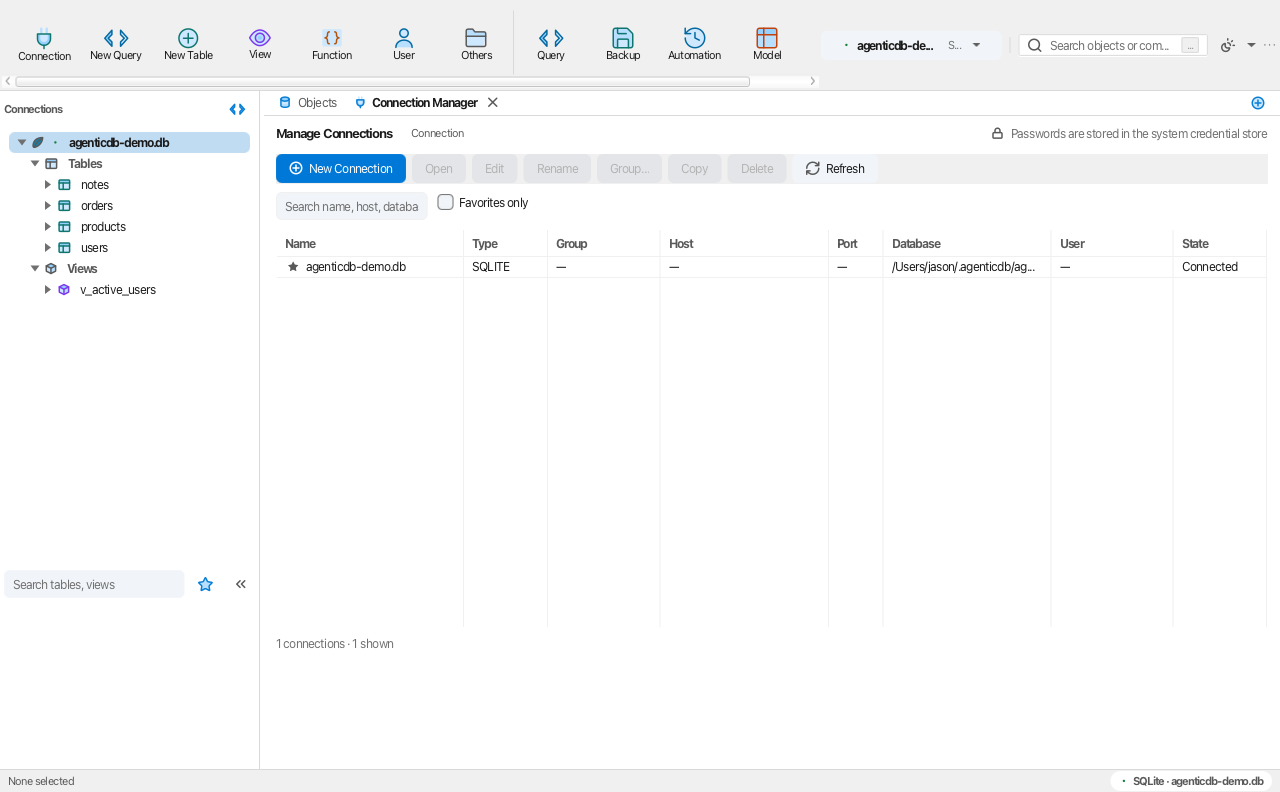
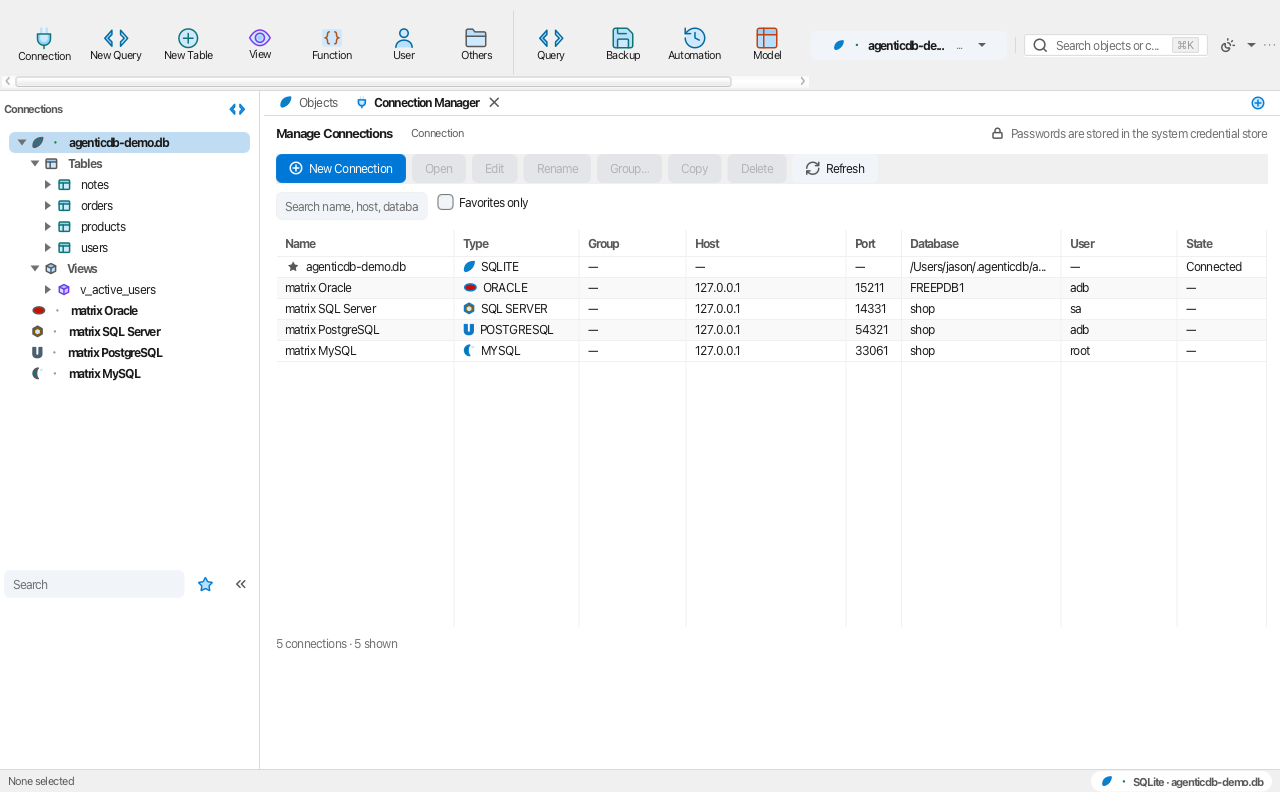
docs: R54 收官回量 1481/159 —— 两个数各自量过，帧抓到两条测试全绿的缺陷
基线（./scripts/build.sh，本机 Docker 起满五引擎 + 三家加密对端）：
- 带矩阵环境：**1481 执行 / 159 类 / 0 失败 / 6 跳过**（10:37→10:48，11:28 分钟）
- 不带矩阵环境：**1394 执行 / 93 跳过**（10:50→11:01，10:56 分钟）
两个数是同一次代码上分别跑出来的，不是抄上一版：较 R53 的 1467/159 = +14 条 / +0 类，
十四条全落在 adb-ui-shell（738 → 752）；两个口径的差仍是 87（1467−1380 = 1481−1394），
因为本轮新门禁不吃环境。带环境那一次的完整日志只留了尾部，所以「非致命异常计数」
只在**不带环境那一次**的 surefire 报告里数过 —— 文档里写明了，没当成两次都数过。

画面：新增 p0-tree-vendors（55 张既有帧里没有一张拍到左树，这是第一张多引擎同框的树）
与 p5-connections-vendors（六家同框 + 胶囊 + 页签 + 状态栏同框），重拍 p5-connections
与 p5-connect-general。四张都按最终代码（含顶栏胶囊那枚图形）重拍并目视核对过。

⚠ 余下的画面账，写在 STATUS 与 GAP-TODOLIST 里不当已验：
- 暗色档的多引擎同框没拍 —— 暗档品牌色只有 ContrastTest 的 ≥3:1 数值证据，没有画面证据；
- 其余 53 张帧拍于顶栏胶囊加图形之前，各自证的仍是别的表面，但别拿它们当「顶栏长这样」的凭据。

文档改的地方：UI-VISUAL-SPEC §4.6 从「两个落点 / 四条规矩」改成「十个表面 / 五条规矩」
（新增第 5 条：给一列加图形就得重新量那一列 —— Type 列 90 → 中途 112 仍折 → 140），
§15 加第五十四轮一行；ROADMAP 的「彩色图标体系」与「导航」两行、STATUS 新增「厂商识别」
能力面一行。本轮没有新增 i18n 键，汉字棘轮与 MODEL_CJK_CEILING 未动。

diff --git a/docs/STATUS.md b/docs/STATUS.md
@@ -10,8 +10,8 @@
 | 项 | 值 |
 |---|---|
 | 命令 | `./scripts/build.sh`（= `./mvnw -B clean verify` + `java tools/TestCount.java`） |
-| 最近一次全量回量 | 2026-11-03 09:00 · macOS 15.7.9 x86_64 · Temurin JDK 25.0.4.1+1 · 本机 Docker 起满五引擎 + 每家两把库（`scripts/dbmatrix.sh`）**+ 三家加密对端**（`dbmatrix.sh tls-up`）· **带 `set -a && . scripts/.dbmatrix.env`**（环境变量在，三套真库矩阵都是真跑的：主矩阵 `ExternalRealDatabaseTest` `Tests run: 46 / 0 失败 / 0 跳过`、TLS 矩阵 `ExternalTlsDatabaseTest` `Tests run: 18 / 0 失败 / 0 跳过`、**本轮新增的写回矩阵 `EditWriteBackMatrixTest` `Tests run: 10 / 0 失败 / 0 跳过`**）。本轮改动（模型 + 界面 + 契约）**全部在这一次全量窗口之内**，量完到提交之间没有再动过产品代码 |
-| 结果 | **1467 条 / 159 类 / 0 失败**（另有 6 条跳过，全部是**设计如此**的门控，见下）—— R53（真库契约第 10 / 11 条 = 数据写回）收官后回量（`./scripts/build.sh` 全绿，2026-11-03 09:00，11:13 分钟；较 R47-d 基线 1453 / 157 = **+14 条 / +2 类**，逐笔对得上：`adb-editing` 19 → 32 = +13（`EditValuesTest` 3 + 新 `EditWriteBackMatrixTest` 10 = 5 引擎 × 2 契约，新增的那 2 类之一）、`adb-ui-shell` 737 → 738 = +1（`CellValueParserTest` 那条「界面接线」门）；其余逐家一字不变。<br>逐模块：`adb-ui-shell` 738 · `adb-introspect` 206 · `adb-jdbc` 198 · `adb-safety` 84 · `adb-ui-core` 62 · `adb-transfer` 50 · `adb-session` 33 · `adb-sql` 31 · `adb-model` 30 · `adb-editing` 32 · `adb-fixtures` 3（合计 1467）。<br>⚠ **口径一（数字对不上时先看这条）**：`adb-jdbc` 按 surefire 的 `tests=` 属性求和是 199，而门禁数是 198 —— 差的那 1 条是 `DatabaseVersionMatrixTest` 的设计性跳过（`@Nested` 口径警告见本节下方）。两个数不是同一口径，别互相抄。<br>⚠ **口径二（本轮两个数各自量过，不是抄上一版）**：同一轮**不带**矩阵环境的回量 = **1380 执行 / 93 跳过**（`adb-editing` 跳 10、`adb-jdbc` 跳 64、`adb-introspect` 跳 14、WinCred 跳 5）；带环境是 1467 / 6。环境不在时数字自己掉 **87** 条 = 上一轮的 77 加上本轮新增的 10 条写回契约 —— **两条独立量出来的数各自对得上**（`editing` 那一格从 19 涨到 32 再掉回 22，涨的 13 条里恰好 10 条是环境门控的）。所以基线一律**带环境量**，这两个数不可比、也不许互相抄 —— 这也解释了「为什么我本地的数比文档少 87」。<br>⚠ **本轮最值钱的一条不是那 10 条绿灯**：契约第一次端出「五个假缺陷」——它照「界面交空串」这个**猜测**往 `DECIMAL` / 布尔列绑 `""`，四家服务端整批拒、SQL Server 的 `BIT` 静默折成 0，而**产品根本不交这个形状**。D-38 是契约内联兜底（走得更宽），这次是契约猜界面形状（走得更窄），同一枚硬币的两面。修法已落进代码：`ColumnType.textual()` + `EditValues.emptiedCell` 做成界面与契约**共用的唯一出处**。五条变异逐条量过（7 / 6 / 2 / 4+10 红），记在 CHANGELOG 的 R53 条目里。<br>⚠ **上一轮（R47-c/D）的四处红/变异不在本行数字里，账在 CHANGELOG 与 `docs/UI-VISUAL-SPEC.md` §15**：D-38（PG / SQL Server 的 `readDdl(view=true)` 是 `return null` 空壳 → 那两家的「设计视图」一次都没开过窗）、D-39（快门落在「还没连上」那一刻 → 画面是演示库、文件名写着 oracle）、D-37（方言 id 拼错却退回演示库拍完还返回 0）、D-37b（一次正确的 abort 在 CI 上长得和成功一模一样）。<br>⚠ **测试侧纪律（R47-b 定的，本轮继续用）**：外壳级门禁留下脏页签时，`@BeforeEach` 的 `resetUi` 一点关闭钮就撞上模态「未保存」确认（`showAndWait` 卡在 FX 线程上）—— 后果不是报红而是**把后面整类测试拖成超时**。断言前先 `markClean`。<br>⚠ 另有一条本轮踩到、上一轮也写过一次的：**`./mvnw -pl <模块>` 不带 `-am` 会用本地仓库里已安装的旧构件**。本轮改完 `adb-model` 的 `textual()` 再单跑 `adb-editing`，红的是「找不到符号 textual()」—— 不是代码错，是量错了对象。变异验证一律带 `-am`。<br>⚠ 日志里的非致命异常（本轮两次回量各自 `grep -c` 数出来的）：Monocle 离屏缓冲异常（`Too small int buffer size …`，渲染线程噪音，所在类仍 `Failures: 0`）**0 次**；`Key too long: ui.query.colwidth.…`（**D-18**）**0 次**（连续第六轮）；`[真库契约] 清理临时视图失败`（**D-30**）**0 次**（连续第六轮）；`[screenshot] FRAME ABORTED` 在两次全量里各 **0 次**。 |
+| 最近一次全量回量 | 2026-11-03 · macOS 15.7.9 x86_64 · Temurin JDK 25.0.4.1+1 · 本机 Docker 起满五引擎 + 每家两把库（`scripts/dbmatrix.sh`）**+ 三家加密对端**。**两个数各自量过两次**：① **带** `set -a && . scripts/.dbmatrix.env` 那一次 10:37→**10:48**（11:28 分钟，全绿）—— 三套真库矩阵都是真跑的（主矩阵 `ExternalRealDatabaseTest` 46 / 0 失败 / 0 跳过、TLS 矩阵 `ExternalTlsDatabaseTest` 18 / 0 / 0、写回矩阵 `EditWriteBackMatrixTest` 10 / 0 / 0）；② **不带**环境那一次 10:50→**11:01**（10:56 分钟，全绿）。本轮改动（界面 + 门禁）**全部在这两个窗口之内**；量完之后只改过一处**注释**（`ConnectionsPage` 那段列宽说明把「纯文字 90 → 中途 112 → 最终 140」说准），行为代码一行没动 |
+| 结果 | **1481 条 / 159 类 / 0 失败**（另有 6 条跳过，全部是**设计如此**的门控，见下）—— R54（每家数据库各一枚厂商图形，铺满十个表面）收官后回量（`./scripts/build.sh` 全绿，2026-11-03 10:48，带矩阵环境；较 R53 基线 1467 / 159 = **+14 条 / +0 类**，逐笔对得上：全部 14 条落在 `adb-ui-shell` 738 → **752**（`VendorGlyphTest` +2、`SideBarTreeTest` +2、`TabBarTest` +3、`ConnectionsPageTest` +1、`StatusBarTest` +1、`QueryCatalogSelectorTest` +1、`ConnectionWizardTest` +1、`AppBarTest` +3），其余逐家一字不变；**类数没涨**是因为十四条全落在既有类里。<br>逐模块：`adb-ui-shell` 752 · `adb-introspect` 206 · `adb-jdbc` 198 · `adb-safety` 84 · `adb-ui-core` 62 · `adb-transfer` 50 · `adb-session` 33 · `adb-sql` 31 · `adb-model` 30 · `adb-editing` 32 · `adb-fixtures` 3（合计 1481）。<br>⚠ **口径一（数字对不上时先看这条）**：`adb-jdbc` 按 surefire 的 `tests=` 属性求和是 199，而门禁数是 198 —— 差的那 1 条是 `DatabaseVersionMatrixTest` 的设计性跳过（`@Nested` 口径警告见本节下方）。两个数不是同一口径，别互相抄。<br>⚠ **口径二（本轮两个数各自量过，不是抄上一版）**：同一轮**不带**矩阵环境的回量 = **1394 执行 / 93 跳过**（`adb-editing` 22 跳 10、`adb-jdbc` 135 跳 64、`adb-introspect` 192 跳 14、WinCred 跳 5）；带环境是 1481 / 6。环境不在时数字自己掉 **87** 条 —— **与上一轮那个 87 是同一条账**（本轮 14 条新门禁全在 `adb-ui-shell`，不吃环境，所以两个口径的**差**没变：1467−1380 = 87、1481−1394 = 87）。所以基线一律**带环境量**，这两个数不可比、也不许互相抄 —— 这也解释了「为什么我本地的数比文档少 87」。<br>⚠ **本轮的性质与上一轮不同，值得记**：R54 **没有新增真库契约**，它新增的是**接线门禁** —— 图形这套资产 R43-a 就建好了，只铺在 2 个表面上，其余八个表面「说得出方言却画不出方言」。所以本轮最值钱的一条不是那 14 条绿灯，而是**两条只有帧能抓到的缺陷**（常驻「对象」页签在 `connectionId == null` 处短路、Type 列加图形后 `POSTGRESQL` 折成 `POSTGRE…`）—— 14 条门禁当时**全绿**。账见 CHANGELOG 的 R54 条目与 `docs/UI-VISUAL-SPEC.md` §4.6 / §15。<br>⚠ **上一轮（R47-c/D）的四处红/变异不在本行数字里，账在 CHANGELOG 与 `docs/UI-VISUAL-SPEC.md` §15**：D-38（PG / SQL Server 的 `readDdl(view=true)` 是 `return null` 空壳 → 那两家的「设计视图」一次都没开过窗）、D-39（快门落在「还没连上」那一刻 → 画面是演示库、文件名写着 oracle）、D-37（方言 id 拼错却退回演示库拍完还返回 0）、D-37b（一次正确的 abort 在 CI 上长得和成功一模一样）。<br>⚠ **测试侧纪律（R47-b 定的，本轮继续用）**：外壳级门禁留下脏页签时，`@BeforeEach` 的 `resetUi` 一点关闭钮就撞上模态「未保存」确认（`showAndWait` 卡在 FX 线程上）—— 后果不是报红而是**把后面整类测试拖成超时**。断言前先 `markClean`。<br>⚠ 另有一条本轮踩到、上一轮也写过一次的：**`./mvnw -pl <模块>` 不带 `-am` 会用本地仓库里已安装的旧构件**。本轮改完 `adb-model` 的 `textual()` 再单跑 `adb-editing`，红的是「找不到符号 textual()」—— 不是代码错，是量错了对象。变异验证一律带 `-am`。<br>⚠ 本轮新踩的一条同类坑，形状不同、根子一样：**断言读的是模型，不是界面**。`ConnectionsPageTest` 想验「Type 列每行顶自己那家的图形」，直接 `new TableCell` + `updateItem` 是**编译不过**的（跨包 protected），`setTableRow` 更private —— 只能驱动**渲染出来的 skin**（`lookupAll(".table-cell")` 按列与行 item 匹配，匹配不到就 `fail`）。「数据在节点里、类却没上到界面上」这一课已经是第二次出现。<br>⚠ 日志里的非致命异常（不带环境那一次全量的 surefire 报告里 `grep -l` 数出来的）：Monocle 离屏缓冲异常（`Too small int buffer size …`）**0 次**；`Key too long: ui.query.colwidth.…`（**D-18**）**0 次**（连续第七轮）；`[真库契约] 清理临时视图失败`（**D-30**）**0 次**（连续第七轮）；`[screenshot] FRAME ABORTED` **0 次**。⚠ 带环境那一次的完整日志没留（管道只留了尾部 50 行），所以这一项只在**其中一次**回量里数过 —— 别把它当两次都数过。 |
 
 
 
@@ -35,6 +35,7 @@
 | 连接与凭据 | ✅ | 六种方言**全部在真服务器上验过**：SQLite（本机）+ MySQL 8.4 / PostgreSQL 16 / MariaDB 11.8 / SQL Server 2022 / Oracle 23ai Free（`scripts/dbmatrix.sh` 五容器 + 每家两把库，`ExternalRealDatabaseTest` 5 引擎 × **9** 契约 = 45 例 + 1 例口令不外泄门 = 46 条）。⭐ R46 那一跑抓出四条只有真服务器才会报的缺陷（D-20 编造的 `sys.tables.collation_name` · D-22 Oracle 目录只认大写导致加引号对象全隐形 · D-24 `sys.triggers` 没有事件列 · D-25 `SHOW CREATE EVENT` 的定义体在第 4 列，按位置猜读到 `"SYSTEM"`）；R52 加第 8 条「视图生命周期」又抓出两条（D-27 · D-29，见 §2「视图生命周期」）；第 9 条「切库落点与隔离」把查询页那颗库选择器从「只由单测钉住」补成**真库证据**（同一台服务器两把库、同一个表名、字面相同的 SQL，两边各读各的行 —— 见 §2「查询页」）。⭐ R47-a 又起一圈**加密对端**（`dbmatrix.sh tls-up`：自签 CA + 一把冒名 CA，MySQL 33071 / MariaDB 33072 / PostgreSQL 54331），3 引擎 × 6 契约 = **18 例**：不加密真是明文、require 真把会话加密（`Ssl_cipher` / `pg_stat_ssl` 各读各的）、给了签发方链校验真通过、换一把没签过服务器的 CA 真被拒、证书里写着的名字（`localhost`）连得上、证书里没写的（`127.0.0.1`）真被挡 —— 这一跑抓出 **D-33**（选「不加密」时一个参数都不写，而三家驱动的默认都是「能加密就加密」：那个标签一直在骗人）、**D-32**（证书失败被归成「连接已断开」，建议把人支去查网络）、**D-34**（连接根本没建起来被归成「查询超时」）。**仍未在真库验证**：SNI（没有按 SNI 选多域名的对端形状，不写「已验」）与 **MySQL 5.7**（版本矩阵是 opt-in）。连接分组、收藏、复制、URI（含 Oracle EZConnect 与 SQL Server 分号参数串）；口令进系统凭据服务，**不落盘**；`connections.json` 落盘前剔除敏感键；HikariCP 池化（除 SQLite），SQLite 直连 |
 | 连接向导 | ✅ | 两页 900×700：类型页 **一行 6 张彩色磁贴**（R43-b：只摆真有驱动的六家，各顶自绘厂商图形 + 品牌色；块居中，不留下半屏空白）+ 一行「其它数据库走兼容协议 / URI」的提示，属性页 7 页签 + `AIDB ⟷ Database` 示意图 + 底部五键。⭐ 原来照 Navicat 摆 22 张（9 类型 + 13 厂商）配 22 个复选与搜索框，其中 16 张点进去是「本版不支持」—— 那不是它的形态（它摆这些家是因为真连得上去），我们摆出来只是让用户多点十六次空；复选栏、搜索框、滚动容器与「无驱动说明页」随死磁贴一起删，「其它怎么办」改成页面上明写的一行。SSL 页的档位与根证书参数**由方言自报**（PG `sslmode` / MySQL `sslMode` / MariaDB `sslMode`+`serverSslCert`，MariaDB 没有 prefer 档）；⭐ R47-a 在加密对端上跑完之后翻两处：① 「不加密」**真的写** `DISABLED` / `DISABLE` / `disable`（原先不写参数，而三家默认都是「能加密就加密」—— 见 D-33）；② MySQL 的「根证书」格在 VERIFY_CA 以上**禁用**并把说明写成 `trustCertificateKeyStoreUrl`（Connector/J 8.2 既没有 `sslCA` 也没有 `sslCapath`，未知属性被静默忽略 —— 收一个填了不生效的路径比不给这个格子更糟）；SQL Server（encrypt + trustServerCertificate 配对）与 Oracle（钱包 / sqlnet.ora）收起档位并写明去哪里填；SSH / HTTP 页如实标注「未实现」，不是空壳 |
 | 对象树 | ✅ | 真实内省（表 / 视图 / 函数·过程；触发器按表归属在结构页，事件本版本不上树）；多连接同树；表节点懒加载展开列，失败可重试；**搜索框的作用域是整棵树**（表 / 视图 / 函数·过程 / 已保存查询），所以提示词只写中性的「Search」，不再点名「表、视图」把自己说窄（R44-G2-a）；搜索框右侧另有**清除一键**，空框时连位置都不占；**右键菜单按对象类型分家**（表节点：清空 / 重命名 / 删除表；视图节点：设计视图 / 删除视图 —— 不再在视图上摆只能失败的表级动作）；**连接节点顶自己那家的厂商图形 + 品牌色**（与向导磁贴读同一登记行，所以两处的 MySQL 同形同色；认不出方言时回落中性插头，不挑一家画上去） |
+| 厂商识别 | ✅ | 六家各**一枚自绘图形 + 自己的品牌色**（不是商标位图，见下「不打包」边界），铺满界面上十个说得出「是哪家」的表面：顶栏连接胶囊与它下拉的每一行、左树的连接节点与**库**节点（库保留圆柱形状，只有颜色跟父连接走）、折叠轨道的连接钮、`OBJECT` 页签、连接管理器 Type 列、状态栏「来源」（与活线点并排 —— 两件事两个线索）、查询页的库▾、向导磁贴与向导预览图。⭐ R54：十个表面全走 `ConnectionCatalog.graphic(kind,size)` **一个出口**，静态审计禁止任何表面自己写 `Icons.Icon.DB_*` 常量选图形（加第七家只在登记行加一行）。**认不出方言时不许挑一家画上去**：回落中性插头 / 圆柱 / 点，顶栏那一格更彻底 —— 没图形就整格收起 |
 | 数据网格 | ✅ | 服务端分页（100/200/500/1000）、行首 16px 状态槽、类型行、列宽/顺序/显隐持久化、冻结列、矩形选择、⌘F 本页搜索、转置只读视图；工具条 13 具名键 + 视图/溢出两小键（放不下折进 `»`；R43-c：视图那颗 `≡▾` 不再钉 30px 宽，箭头不再压住图标）；底栏五键 + 页码框 + 齿轮（页大小/跳至记录）+ 放大镜 + 视图切换；**内嵌 Filter & Sort 生成器**（平铺 AND、Builder/Text 双模式、显式 Apply、Sort By 芯片） |
 | Filter & Sort 面板 | ✅ | 网格内嵌（非弹窗），只改草稿不即输即查；`Criteria Edited` 标脏，`Apply Filter & Sort` 才生效。**边界**：底层 `DataQuery` 只有平铺 AND —— `and` 固定，`[Ω]`（OR 组）给如实说明页；Text 模式只读（自由 SQL 请去查询页）；`IN` 条件无法在行内表达，列头漏斗的按值筛选保留并原样带入 |
 | 数据页写路径 | ✅ | 行内编辑 + 类型转换 + 按主键定位；NULL / 空串独立操作；批量操作走行多选 + 右键菜单 + 底部行操作条（TSV / INSERT / 克隆 / 置 NULL / 置空串 / 删除）；SQL 预览 → 单事务 → 失败回滚 → 保存后一次反向撤销。⭐ **R53 起这条有真库证据**（此前九条契约量的全是「读」，这条用得最多的「写」只在 SQLite 替身上跑过）：契约第 10 条 `writeBackRoundTrip` 按界面的同一个顺序调同一个 `EditSqlBuilder`，在五台真服务器上量「中文不折问号 / `10.50` 不掉标度 / `true` 在 TINYINT(1)、BOOLEAN、BIT、`NUMBER(1)` 四档形状下都读得回成真 / 同行两格改动只发**一条** UPDATE 且 `WHERE` 只命中主键那一行 / 撤销打得回原值 / 删一行只少一行」；第 11 条钉「清空一格落成什么」—— 数字与布尔列五家全部落成**真 NULL**，文本列落成空串（Oracle 把 `''` 存成 NULL 是它自己的形状，如实分支钉）。⚠ 如实记一条边界：Oracle 的 `NUMBER(1)` 在目录里归 `ColumnType.NUMBER` 而非 `BOOLEAN`（其余四家归 BOOLEAN），**两边都是事实** —— Oracle 没有可用的布尔建表档，契约按引擎各钉自己那一档，不假装五家一样。 |
@@ -67,9 +68,15 @@
 - 验收帧目前全部是 **macOS** 拍的（2026-10-30 起）。⭐ 其中 **8 张拍在本机 Docker 的真服务器上**，分属四家方言
   （`ADB_MATRIX` 那条通道：R47-b 的 `库▾` 展开态 / 切到第二把库后的页面态 / MySQL 侧新建与改视图的方言形态，
   R47-d 的 SQL Server 方括号新建视图 + PG / SQL Server / Oracle 三家「设计视图」读回形态）；
+  ⭐ R54 另起**第三条通道** `ADB_TREE_VENDORS=1`（2 张：`p0-tree-vendors` 一棵树里五家并排、
+  `p5-connections-vendors` 连接管理器六家同框，另重拍 2 张）—— 它从 `ADB_TEST_<方言>_{HOST,PORT,DB,USER}`
+  造**连接档案**，**不声明有活会话**：图形取自档案的 `kind`，容器没起时五行各带一颗灰点而图形仍然是真的，
+  所以它不需要 D-37/D-39 那套落点门，反过来也**不能**被读成「五家同时连上了」。环境完全没配时
+  这一路同样 `abortMatrixFrame` → `exit 3` 且不写文件，不会退回「只有演示库一行」拍一张名字写着五家的图。
   其余 47 张拍在 SQLite 演示库上，而 SQLite 没有「库」这一层 —— 所以「下拉里有两把库」这类
   **只有真服务器才有的形状**在 R47-b 之前一直没有画面证据（现已还，见 §2「查询页」与「视图生命周期」两行）。
-  ⚠ 这条画面账上仍挂着的：切库**落点**帧只有 MySQL 一家（Oracle 没有库层，不算缺帧）、SSH 半边（G5a）全部画面。
+  ⚠ 这条画面账上仍挂着的：切库**落点**帧只有 MySQL 一家（Oracle 没有库层，不算缺帧）、SSH 半边（G5a）全部画面、
+  ⭐ R54 的**暗色档多引擎同框**（两张新帧都是亮色，暗档品牌色只有 `ContrastTest` 的 ≥3:1 数值证据、没有画面证据）。
   ⚠ 真库这条通道本轮被加了四道「不许假帧」的门（**D-37 / D-37b / D-39**，逐道都做过变异）：脚本侧方言 id
   白名单（写错直接 `exit 1`）、没配那一家口令就**跳过并说明**、外壳没落到那把档案或会话还没起来时
   **abort 且不写文件**（`System.exit(3)`）、脚本网格没产出文件就**非零退出**。口径是

diff --git a/docs/ROADMAP.md b/docs/ROADMAP.md
@@ -14,7 +14,7 @@
 | 平台 | macOS · Windows · Linux（**源码构建**；尚无签名安装包，见 `docs/STATUS.md` §分发） |
 | 数据网格 | 服务端分页、列筛选/条件构造、多列排序、列宽与顺序记忆、行内编辑、区域选择、冻结列；**Filter & Sort 内嵌生成器**（显式 Apply、Sort By 芯片） |
 | 写操作安全 | SQL 预览 → 单事务执行 → 失败回滚 → 保存后反向撤销；危险语句分级 + 两级确认 |
-| 导航 | 连接 → 库 → 分组三级树；MySQL / MariaDB / PostgreSQL / SQL Server 多库可切换（双击库即切），SQLite 单库平铺；页签与状态栏带库名。⭐ R52 契约第 9 条把「切过去之后语句真的落在那个库」补成了真库证据（此前只有连接对象换库名的单测） |
+| 导航 | 连接 → 库 → 分组三级树；MySQL / MariaDB / PostgreSQL / SQL Server 多库可切换（双击库即切），SQLite 单库平铺；页签与状态栏带库名，⭐ R54 起界面上十个说得出「是哪家」的表面各顶**自己那一家**的图形与品牌色，不用读字就知道连的是哪家。⭐ R52 契约第 9 条把「切过去之后语句真的落在那个库」补成了真库证据（此前只有连接对象换库名的单测） |
 | 结构编辑 | 加列/改列/重命名/删列、索引、外键、触发器、CHECK、表注释，全部单事务 + 联动刷新 |
 | SQL 编辑器 | 语法高亮、当前语句执行、多语句结果页签、执行计划、错误定位、查询历史、代码片段；已保存查询是对象页（4 列 + 设计/新建/删除） |
 | 导入导出 | CSV / TSV / JSON Lines / SQL / xlsx，字段映射、按目标列类型转换、坏行报告 |
@@ -27,7 +27,7 @@
 
 | 项 | 状态 |
 |---|---|
-| 彩色图标体系（对象类型 / 状态） | 导航词表（侧栏 / 对象树 / 结构页 / 页签）、功能区 6 条命令、16px 内联工具条与**六家数据库图形**（R43-a 自绘 + 品牌色令牌）都已走彩色档 |
+| 彩色图标体系（对象类型 / 状态） | 导航词表（侧栏 / 对象树 / 结构页 / 页签）、功能区 6 条命令、16px 内联工具条与**六家数据库图形**（R43-a 自绘 + 品牌色令牌）都已走彩色档。⭐ R54：厂商图形从「只在两处」铺到**十个表面**（顶栏胶囊与它的下拉 / 树的连接与库节点 / 折叠轨道钮 / `OBJECT` 页签 / 连接管理器 Type 列 / 状态栏 / 查询页库▾ / 向导磁贴与预览图），全部经 `ConnectionCatalog.graphic(kind,size)` 这**一个出口**，并有静态审计禁止任何表面自己写常量选图形 |
 | 弹窗与向导 | ✅ 已交付（R40，R43-b 收敛）：弹窗统一走系统标题栏；连接向导两页 900×700，类型页 **6 张磁贴**（只摆真有驱动的六家）—— 22 磁贴 / 9+13 复选栏 / 搜索 / 无驱动说明页已删 |
 | 表设计器与字号梯度 | ✅ 已交付（R41）：`Virtual` 生成列 / `Key` 单下拉 / `Key Length` / `Binary` / 属性面板自增 / `Ask AI` 说明页；字号收成 11/12/13 三档（令牌 104）。✅ R43-c 视觉收尾：数据网格工具条右端那颗**只有箭头的** `▾` 修掉（视图键的 30px 钉宽装不下「图标 + 箭头」，箭头被挤到图标左边压住它），建表弹窗字段页三段改为整体居中（四列时不再在网格与属性面板之间留一条 130px 的死空白） |
 | **更多数据库** | ✅ 已交付（R46，R52 补完视图与切库，R47-a 补完加密对端）：Oracle · SQL Server · MariaDB 的方言与目录查询**全部在真服务器上跑过** —— 本机 Docker 起满五引擎、每家两把库，真库契约展开成 5 × 9 矩阵（46 例）：R46 抓出 D-20 / D-22 / D-24 / D-25，R52 加第 8 条「视图生命周期」抓出 D-27 / D-29（SQL Server 的视图定义读取是空壳、MySQL 被误判成没有 `CREATE OR REPLACE VIEW`），第 9 条「切库落点与隔离」补上查询页那颗库选择器唯一没证的环节（语句落在哪个库）。⭐ R47-a 另起第二圈**加密对端**（自签 CA + 冒名 CA，MySQL / MariaDB / PostgreSQL 三家 × 6 条 = 18 例）：抓出 D-33（「不加密」当年一个参数都不写，而三家默认都是「能加密就加密」）、D-32（证书失败被归成「连接已断开」）、D-34（连不上被归成「查询超时」）。余：MySQL 5.7 那一档（版本矩阵是 opt-in，本机没跑过）、SNI 单独验证（没有需要靠 SNI 区分多域名的对端，不写「已验」）。⭐ R47-b 把这批真服务器接进了**画面**：截图通道新增 `ADB_MATRIX`（进程内临时档案，口令不进钥匙串、档案不落 `connections.json`），四张真库帧落地（`库▾` 展开态 / 切到第二把库后的页面态 / MySQL 侧新建与改视图的方言形态），并当场抓出 **D-36** —— 查询页换库后开出的新页其实是**空**的，而状态栏一直在说「SQL 已复制到新查询页」）。⭐ R47-c 把同一把尺子调过来量这条通道自己，堵掉四处「假帧」出口（D-37 / D-37b / D-39）：方言 id 拼错 → 脚本 `exit 1`；声明与落点不配对 → 应用 `exit 3` **且不写文件**；格子没产出 → 脚本非零退出（此前打印「✓ 已产出 0 张」+ exit 0）；快门落在「还没连上」的那一刻 → 落盘前再判一次落点。⭐ R47-d 把种子铺满**五家**、真库帧从 4 张补到 **8 张**（SQL Server 的方括号 `CREATE OR ALTER VIEW` / PG 的 `pg_get_viewdef` 多行正文 / SQL Server 的原文 / Oracle 带 schema 前缀的定义），并当场抓出 **D-38** —— PG 与 SQL Server 上「设计视图**从来没开出过窗**」，而 46 条真库契约全绿：因为契约自己内联了一遍兜底，走的路和界面不是同一条（现已把兜底收进方言、契约改成直接钉产品那条路）。⭐ **R53 补上第 10 / 11 条 = 数据写回**（此前九条量的全是「读」，界面用得最多的那条「写」零真库证据）：`EditWriteBackMatrixTest` 在五台服务器上按界面同一条路跑 `plan → inversePlan → execute`，10 例全绿；这一轮端出来的**不是绿灯而是五个假缺陷** —— 契约照「界面交空串」这个猜测往 `DECIMAL` / 布尔列绑 `""`，四家服务端整批拒、SQL Server 的 `BIT` 静默折成 0，而产品根本不交这个形状。规则于是从界面私有分支搬进唯一出处（`ColumnType.textual()` + `EditValues.emptiedCell`），界面与契约调同一个方法 |

diff --git a/CHANGELOG.md b/CHANGELOG.md
@@ -11,6 +11,35 @@
 
 ### Added
 
+- **每家数据库顶自己那枚图形，十个表面一次铺齐**（2026-11-03，R54 · 用户点名「每个类型数据库
+  都改为用他们自己特定的 icon，一眼看出是 mysql、pg 等」）：先量现状再动手，量出来的结论是
+  **这一轮不需要画任何图标** —— 六枚自绘字形（`Icons.Icon.DB_*`）、彩色分层资产
+  （`icons/color/db_*.svg`）、亮暗两档品牌色（`Tokens.VENDOR_*`）、CSS 作用域类
+  （`.adb-db--<id>`）和「六家两两不同形」的门禁（`VendorGlyphTest`）在 R43-a 就全建好了，
+  缺的是**它们只铺在两个表面上**：向导磁贴、左树的连接节点。其余每一个说得出「是哪家」的地方
+  —— 顶栏那颗常驻胶囊、它的下拉、左树的**库**节点、页签、连接管理器的 Type 列、状态栏、
+  查询页的库▾、折叠侧栏的连接钮、向导右边那张预览图 —— 全是通用圆柱 / 通用插头 + 一行字。
+  修的方式不是挨个表面各画一遍（那是 D-38 的形状：同一条规则十份实现），而是把
+  「取字形 → 上彩色分层 → 挂品牌作用域类」收成**一个出处** `ConnectionCatalog.graphic(kind, size)`，
+  十个表面全调它；再加一条静态审计 `onlyTheRegistrationRowPicksVendorGlyphs`：
+  整个 `ui/` 的源码里除了登记行本身，出现 `Icons.Icon.DB_MYSQL` 这类**常量分支选图形**就红
+  —— 将来加第七家，只需要在登记行加一行。
+  三条口径本轮没有松动：**认不出方言就交回调用方原本的兜底图形**（中性点 / 插头 / 圆柱），
+  画成某一家就是编造；**继续不打包任何厂商商标图形**（可辨识度靠「形状互不相同 + 各自品牌色」
+  两条腿，竞品的位图进产品就是他人版权素材）；状态栏那格**保留**活线点、图形另起一槽 ——
+  「连着没连着」和「连的是哪家」是两件事，不该挤进同一个线索。
+  画面：新增 `p0-tree-vendors.png`（**55 张既有帧里没有一张拍到左树**，这是第一张多引擎同框的树）
+  与 `p5-connections-vendors.png`（六家同框的连接管理器），重拍 `p5-connections.png` 与
+  `p5-connect-general.png`。这一路走新的 `ADB_TREE_VENDORS=1` 通道：只从
+  `ADB_TEST_<方言>_{HOST,PORT,DB,USER}` 造**连接档案**（口令仍然零入库、不进凭据存储），
+  环境变量完全不在时直接 `FRAME ABORTED` → 退出码 3、一个字节都不写。
+  ⚠ 这一路的帧**故意不声明有活会话** —— 图形来自档案登记的 kind，不来自 session，
+  所以它不需要 D-37/D-39 那套「必须真落到那台服务器」的落库门；反过来它也**不能**被当成
+  「五家同时连上了」的证据，那张画面说的是「树认得这六家」。
+  **门禁**：本轮 +13 条（十个表面各钉一条「图形上的作用域类就是那一家」+ 上面那条源码审计 +
+  无连接时那一格必须整格收起）。变异台账见 `docs/internal/GAP-TODOLIST.md` 的 R54 收官记录。
+
+
 - **格子改完落库这条路第一次打到真服务器上**（2026-11-03，R53）：真库矩阵此前九条契约量的全是
   **读**（目录、DDL、视图、切库）；界面用得最多的那条 **写** —— 双击一格 → 改 → 保存 →
   按主键打回去 —— 只在内存替身（SQLite）上跑过。生成的 SQL 形状钉得住，
@@ -240,6 +269,20 @@
   图标台账改为 55 枚（53 枚 Lucide + 2 枚自绘）。
 
 ### Fixed
+
+- **本轮自己引入、被实拍帧当场抓走的两个**（2026-11-03，R54）：记在这里是为了说清一件事 ——
+  这两个都不是「用户曾经见过的缺陷」，而是「代码写完、测试全绿、画面上却是错的」，
+  只有帧能看见它们（这也是 R54 坚持出帧的理由：「一眼看出」本身就是画面命题）。
+  - **常驻的「Objects」页签仍顶通用圆柱**：第一版 `TabBar.vendorGraphic` 在
+    `tab.connectionId() == null` 处短路，而那个首页页签的 id 恰恰是 `null`（它不属于某个连接，
+    属于「当前连接」）—— 于是十个表面里最常驻的那一个反而没铺上。修：把 null **交给注入的函数**，
+    由外壳回落到当前活动连接；顺带发现换页签节点时会把 `adb-tab__icon` 丢掉（类挂在旧节点上），
+    重绘时必须重新挂回去。
+  - **连接管理器 Type 列把 `POSTGRESQL` 折成 `POSTGRE…`**：那一列的 90px 是按**纯文字**量的，
+    加了图形 + 5px 间距等于凭空吃掉一截（中途试到 112px 仍然折字）。修到 140px（按最长的那个名字 PostgreSQL 留）。
+    ⚠ 这条的通用账是：**给一列加图形，就得重新量那一列** —— 单元测试看的是模型里的字符串，
+    它不会告诉你屏幕上少了三个字母。
+
 
 - **PG / SQL Server 上「设计视图」一次都打不开，整表重建还会把依赖视图删掉不重建**
   （2026-11-03，R47-d · D-38）：这两家的 `readDdl(..., view=true)` 整方法 `return null`
